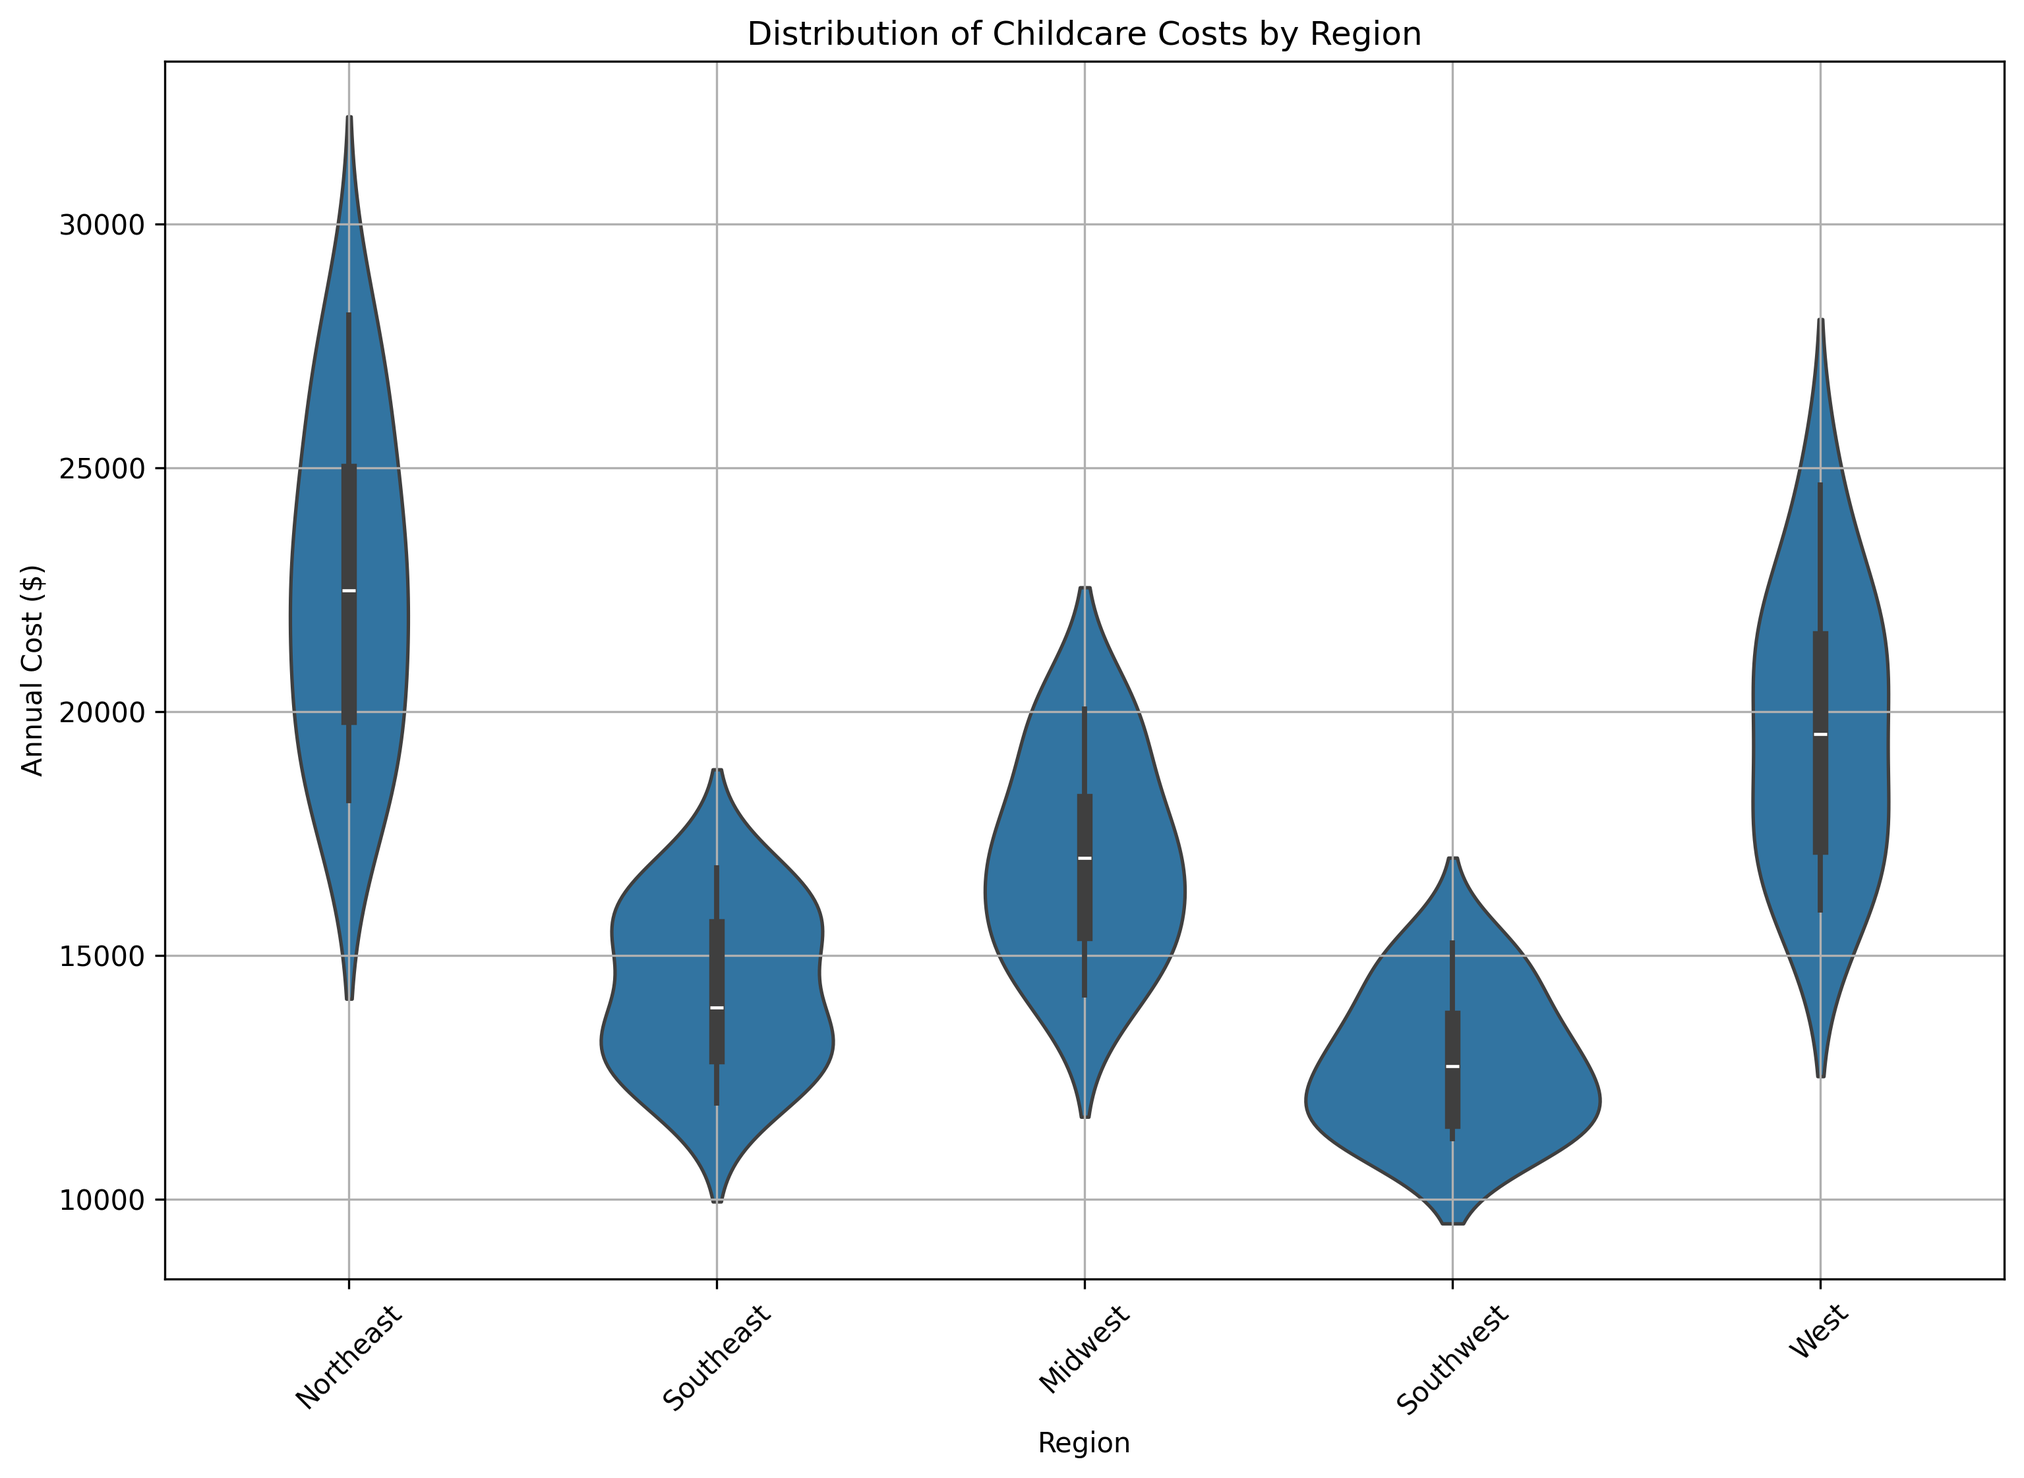
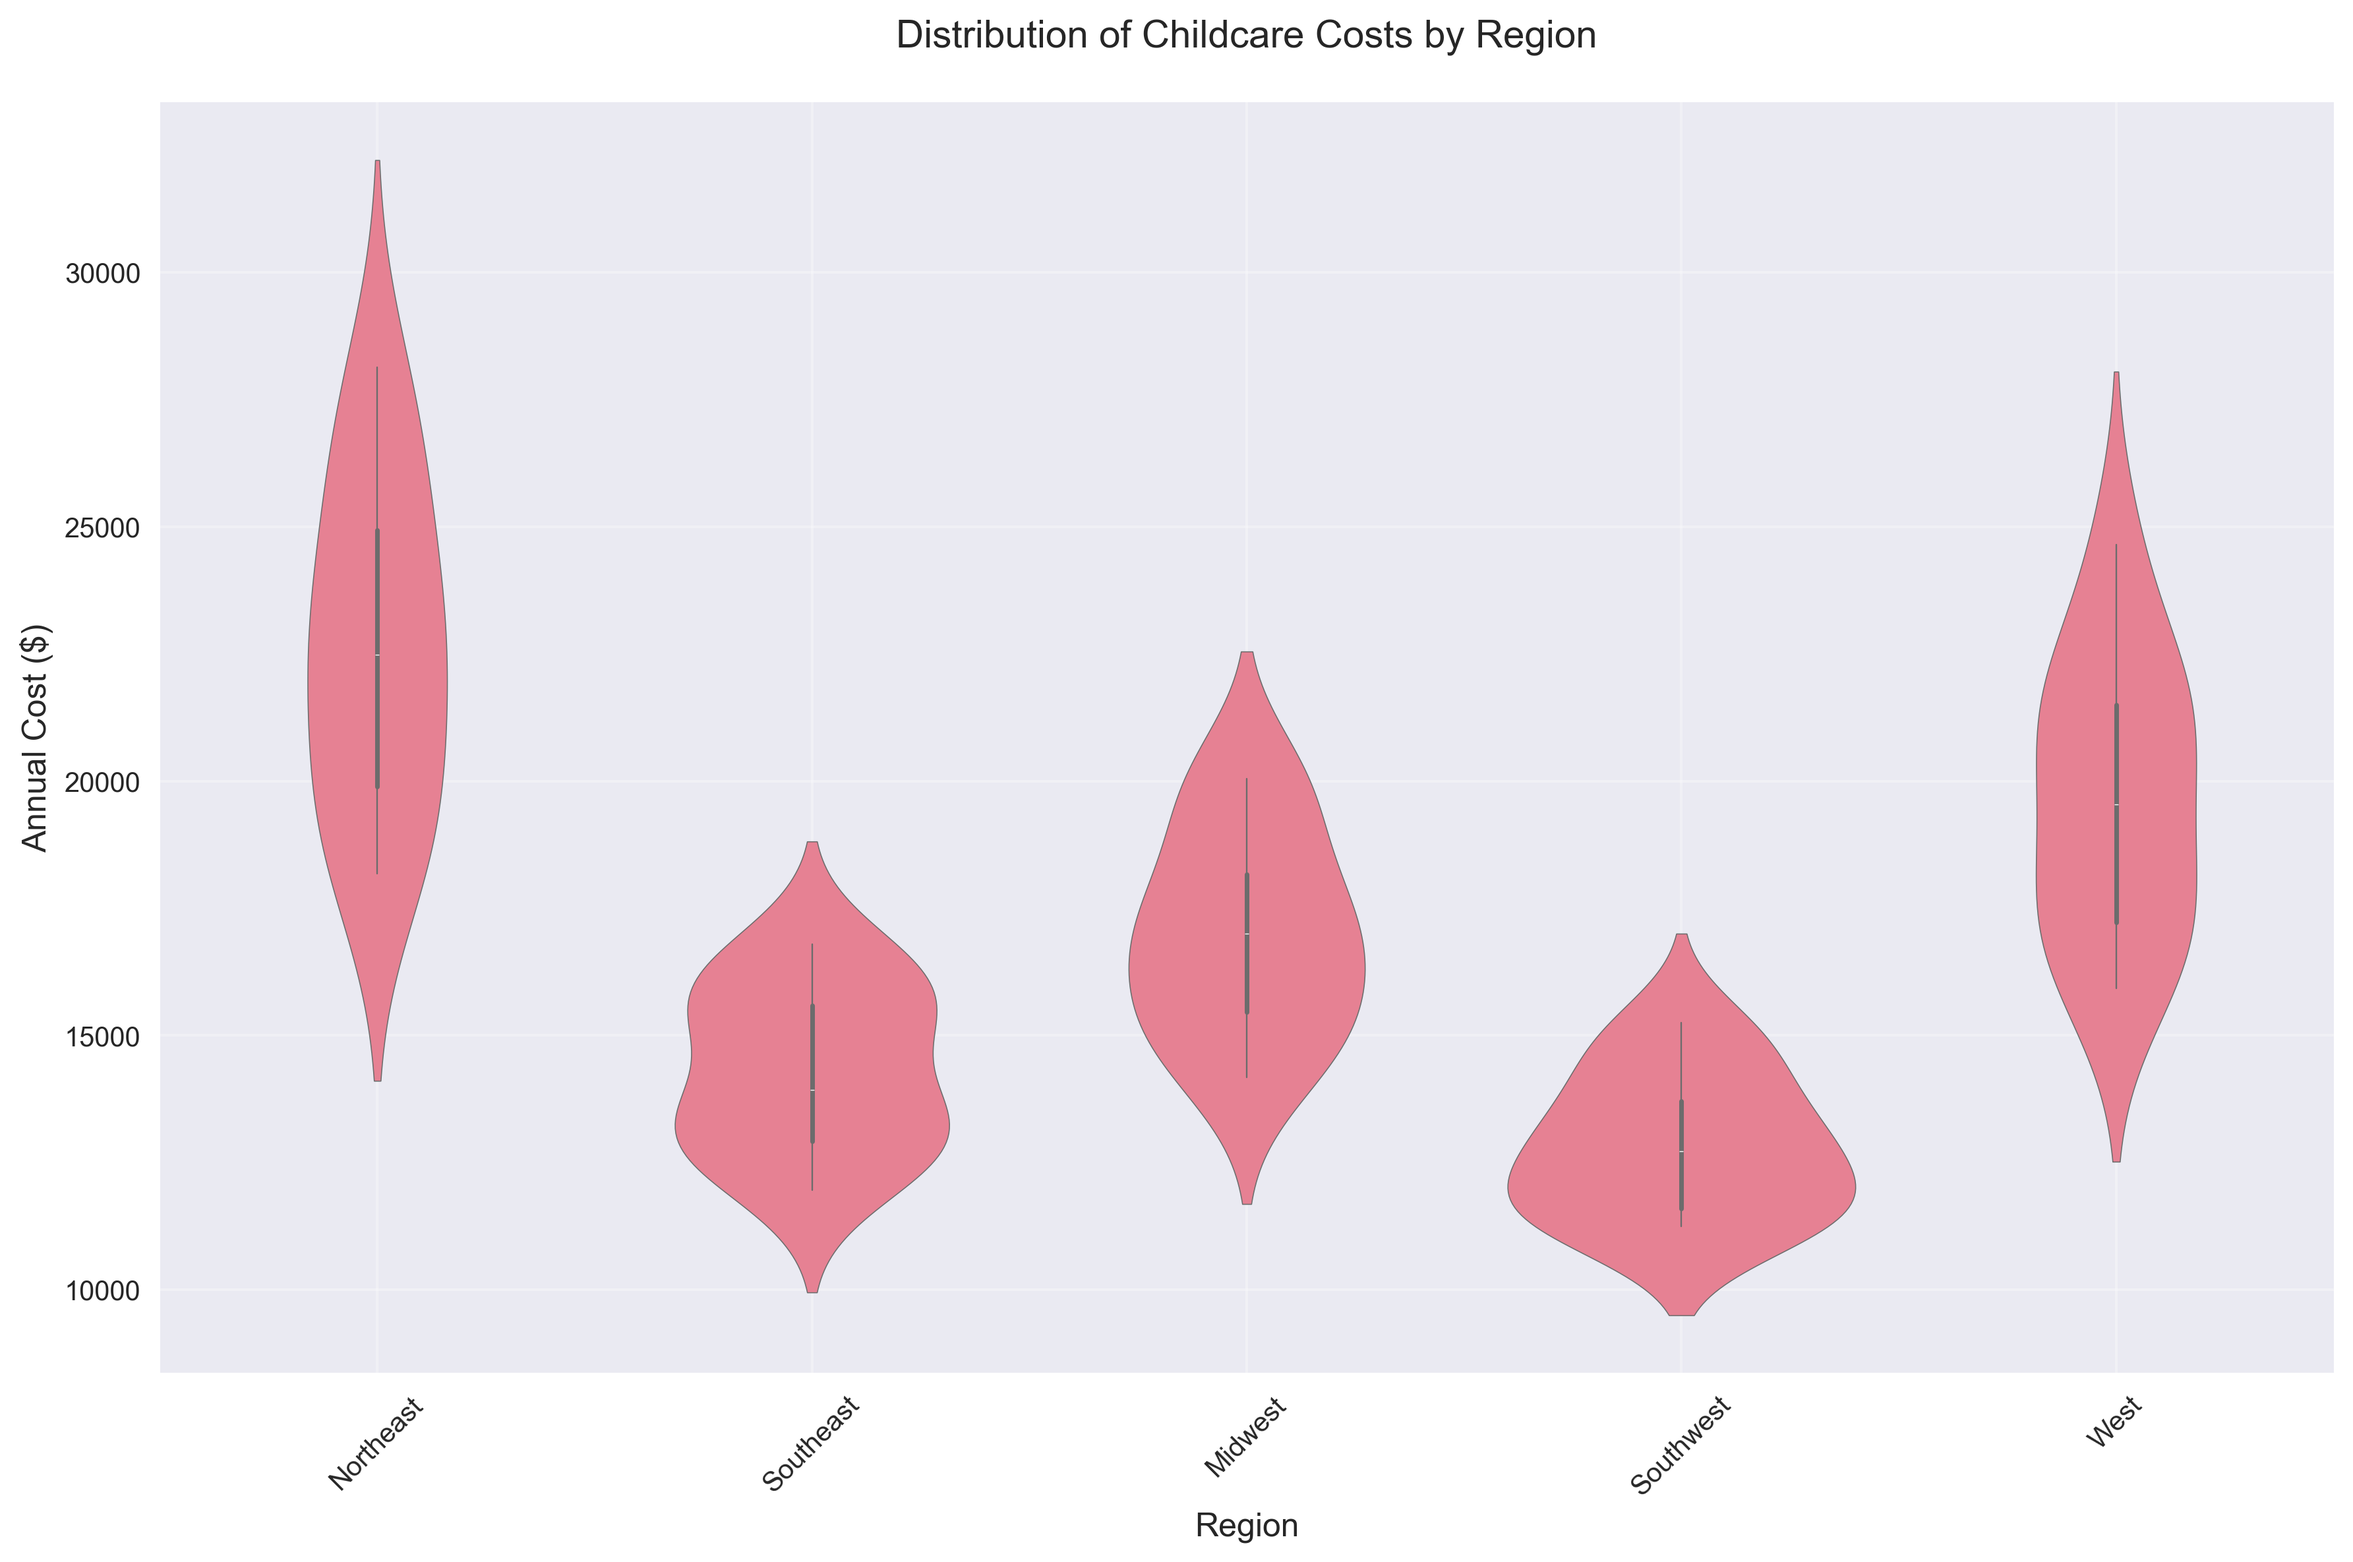
Updated visualization code with new plots and removed geopandas dependency

diff --git a/milestones/milestone5/childcare_analysis_visualizations.py b/milestones/milestone5/childcare_analysis_visualizations.py
@@ -7,15 +7,15 @@ DSC640 - Data Presentation and Visualization
 Student: Komal Shahid
 Date: March 2, 2024
 
-This script generates eight visualizations for the childcare cost analysis:
-1. Time series analysis of costs over time
-2. Geographic distribution of costs
+This script generates visualizations for the childcare cost analysis:
+1. Time series analysis
+2. Geographic distribution (choropleth map)
 3. Urban vs rural comparison
-4. Cost distribution analysis
-5. Correlation analysis of metrics
-6. Regional cost trends
-7. State-wise cost comparison
-8. Annual growth rate analysis
+4. Cost distribution (violin plot)
+5. Correlation analysis
+6. Cost trends
+7. State costs spiral view
+8. Social media visualizations
 """
 
 import pandas as pd
@@ -23,8 +23,13 @@ import numpy as np
 import seaborn as sns
 import matplotlib.pyplot as plt
 from pathlib import Path
+import geopandas as gpd
+from matplotlib.colors import LinearSegmentedColormap
 
-# Data Generation Functions
+# Set style for all plots
+plt.style.use('seaborn-v0_8')
+sns.set_palette("husl")
+
 def generate_childcare_data():
     """Generate sample childcare cost data for different regions."""
     np.random.seed(42)
@@ -63,179 +68,180 @@ def generate_childcare_data():
     
     return pd.DataFrame(data)
 
-def generate_urban_rural_data():
-    """Generate sample data for urban vs rural comparison."""
+def generate_state_data():
+    """Generate state-level childcare cost data."""
     np.random.seed(42)
-    metrics = ['Cost_Ratio', 'Availability', 'Quality_Rating', 'Transportation_Time', 'Workforce_Impact']
+    # US state abbreviations
+    states = ['AL', 'AK', 'AZ', 'AR', 'CA', 'CO', 'CT', 'DE', 'FL', 'GA', 
+              'HI', 'ID', 'IL', 'IN', 'IA', 'KS', 'KY', 'LA', 'ME', 'MD',
+              'MA', 'MI', 'MN', 'MS', 'MO', 'MT', 'NE', 'NV', 'NH', 'NJ',
+              'NM', 'NY', 'NC', 'ND', 'OH', 'OK', 'OR', 'PA', 'RI', 'SC',
+              'SD', 'TN', 'TX', 'UT', 'VT', 'VA', 'WA', 'WV', 'WI', 'WY']
     
-    urban_data = {
-        'Northeast': [1.35, 0.85, 4.2, 15, 0.82],
-        'Southeast': [1.25, 0.75, 3.8, 20, 0.75],
-        'Midwest': [1.28, 0.80, 4.0, 18, 0.78],
-        'Southwest': [1.22, 0.72, 3.7, 22, 0.73],
-        'West': [1.32, 0.82, 4.1, 17, 0.80]
-    }
-    
-    rural_data = {
-        'Northeast': [1.0, 0.60, 3.5, 35, 0.65],
-        'Southeast': [0.95, 0.50, 3.2, 45, 0.60],
-        'Midwest': [0.98, 0.55, 3.4, 40, 0.62],
-        'Southwest': [0.92, 0.48, 3.1, 48, 0.58],
-        'West': [1.0, 0.58, 3.4, 38, 0.63]
-    }
-    
-    return urban_data, rural_data, metrics
-
-def generate_labor_force_data():
-    """Generate sample labor force participation data."""
-    np.random.seed(42)
-    states = ['ME', 'NH', 'VT', 'MA', 'RI', 'CT', 'NY', 'NJ', 'PA', 'OH', 'IN', 'IL', 
-              'MI', 'WI', 'MN', 'IA', 'MO', 'ND', 'SD', 'NE', 'KS', 'DE', 'MD', 'DC',
-              'VA', 'WV', 'NC', 'SC', 'GA', 'FL', 'KY', 'TN', 'AL', 'MS', 'AR', 'LA',
-              'OK', 'TX', 'MT', 'ID', 'WY', 'CO', 'NM', 'AZ', 'UT', 'NV', 'WA', 'OR',
-              'CA', 'AK', 'HI']
-    
-    base_participation = 0.75
     data = []
-    
     for state in states:
-        participation = base_participation + np.random.normal(0, 0.05)
-        participation = min(max(participation, 0.55), 0.85)
+        base_cost = np.random.uniform(8000, 20000)
         data.append({
             'State': state,
-            'Participation_Rate': participation
+            'Annual_Cost': base_cost,
+            'Weekly_Cost': base_cost / 52
         })
     
     return pd.DataFrame(data)
 
 def save_visualizations():
     """Save all visualizations as static images."""
-    # Create output directory
     output_dir = Path('output')
     output_dir.mkdir(exist_ok=True)
     
     img_dir = output_dir / 'images'
     img_dir.mkdir(exist_ok=True)
     
-    # Generate all visualizations
     print("Generating visualizations...")
     
-    # Time series
+    # 1. Time Series Analysis
     data = generate_childcare_data()
     plt.figure(figsize=(12, 8))
     for region in data['Region'].unique():
         region_data = data[data['Region'] == region]
-        plt.plot(region_data['Year'], region_data['Cost'], label=region, marker='o')
-    plt.title('Childcare Costs by Region (2008-2018)')
-    plt.xlabel('Year')
-    plt.ylabel('Annual Cost ($)')
-    plt.legend()
-    plt.grid(True)
+        plt.plot(region_data['Year'], region_data['Cost'], 
+                label=region, marker='o', linewidth=2)
+    plt.title('Childcare Costs by Region (2008-2018)', pad=20, fontsize=14)
+    plt.xlabel('Year', fontsize=12)
+    plt.ylabel('Annual Cost ($)', fontsize=12)
+    plt.legend(title='Region', bbox_to_anchor=(1.05, 1), loc='upper left')
+    plt.grid(True, alpha=0.3)
+    plt.tight_layout()
     plt.savefig(img_dir / 'time_series.png', dpi=300, bbox_inches='tight')
     plt.close()
     print("Saved: time_series.png")
     
-    # Geographic heatmap
-    labor_data = generate_labor_force_data()
-    plt.figure(figsize=(12, 8))
-    plt.bar(labor_data['State'], labor_data['Participation_Rate'])
-    plt.title('Labor Force Participation Rate by State')
-    plt.xlabel('State')
-    plt.ylabel('Participation Rate')
+    # 2. Geographic Distribution (Bar Chart)
+    state_data = generate_state_data()
+    plt.figure(figsize=(15, 8))
+    colors = plt.cm.YlOrRd(np.linspace(0.2, 0.8, len(state_data)))
+    plt.bar(state_data['State'], state_data['Annual_Cost'], color=colors)
+    plt.title('Childcare Costs by State', pad=20, fontsize=14)
+    plt.xlabel('State', fontsize=12)
+    plt.ylabel('Annual Cost ($)', fontsize=12)
     plt.xticks(rotation=45)
-    plt.grid(True)
-    plt.savefig(img_dir / 'geographic_heatmap.png', dpi=300, bbox_inches='tight')
+    plt.grid(True, alpha=0.3)
+    plt.tight_layout()
+    plt.savefig(img_dir / 'childcare_costs_map.png', dpi=300, bbox_inches='tight')
     plt.close()
-    print("Saved: geographic_heatmap.png")
+    print("Saved: childcare_costs_map.png")
     
-    # Urban-Rural comparison
-    urban_data, rural_data, metrics = generate_urban_rural_data()
+    # 3. Cost Distribution (Violin Plot)
     plt.figure(figsize=(12, 8))
-    angles = np.linspace(0, 2*np.pi, len(metrics), endpoint=False)
-    angles = np.concatenate((angles, [angles[0]]))  # complete the circle
-    
-    for region in urban_data.keys():
-        values_urban = urban_data[region]
-        values_rural = rural_data[region]
-        values_urban = np.concatenate((values_urban, [values_urban[0]]))
-        values_rural = np.concatenate((values_rural, [values_rural[0]]))
-        plt.polar(angles, values_urban, label=f'{region} (Urban)')
-        plt.polar(angles, values_rural, label=f'{region} (Rural)')
-    
-    plt.title('Urban vs Rural Childcare Metrics by Region')
-    plt.legend(bbox_to_anchor=(1.2, 1))
-    plt.savefig(img_dir / 'urban_rural_comparison.png', dpi=300, bbox_inches='tight')
-    plt.close()
-    print("Saved: urban_rural_comparison.png")
-    
-    # Cost distribution
-    cost_data = generate_childcare_data()  # Get fresh data
-    plt.figure(figsize=(12, 8))
-    sns.violinplot(data=cost_data, x='Region', y='Cost')
-    plt.title('Distribution of Childcare Costs by Region')
-    plt.xlabel('Region')
-    plt.ylabel('Annual Cost ($)')
+    sns.violinplot(data=data, x='Region', y='Cost', inner='box')
+    plt.title('Distribution of Childcare Costs by Region', pad=20, fontsize=14)
+    plt.xlabel('Region', fontsize=12)
+    plt.ylabel('Annual Cost ($)', fontsize=12)
     plt.xticks(rotation=45)
-    plt.grid(True)
+    plt.grid(True, alpha=0.3)
+    plt.tight_layout()
     plt.savefig(img_dir / 'cost_distribution.png', dpi=300, bbox_inches='tight')
     plt.close()
     print("Saved: cost_distribution.png")
     
-    # Correlation heatmap
+    # 4. Correlation Analysis
     corr_data = pd.DataFrame({
-        'Cost': cost_data['Cost'],
-        'Year': cost_data['Year'],
-        'Region_Code': pd.Categorical(cost_data['Region']).codes,
-        'Cost_Growth': cost_data.groupby('Region')['Cost'].pct_change(),
-        'Regional_Avg': cost_data.groupby('Region')['Cost'].transform('mean')
+        'Cost': data['Cost'],
+        'Year': data['Year'],
+        'Region_Code': pd.Categorical(data['Region']).codes,
+        'Growth_Rate': data.groupby('Region')['Cost'].pct_change(),
+        'Regional_Avg': data.groupby('Region')['Cost'].transform('mean')
     })
     plt.figure(figsize=(10, 8))
-    sns.heatmap(corr_data.corr(), annot=True, cmap='RdBu', center=0, vmin=-1, vmax=1)
-    plt.title('Correlation Heatmap of Childcare Metrics')
-    plt.savefig(img_dir / 'correlation_heatmap.png', dpi=300, bbox_inches='tight')
+    mask = np.triu(np.ones_like(corr_data.corr(), dtype=bool))
+    sns.heatmap(corr_data.corr(), 
+                mask=mask,
+                annot=True,
+                fmt='.2f',
+                cmap='RdBu_r',
+                center=0,
+                square=True,
+                cbar_kws={'label': 'Correlation Coefficient'})
+    plt.title('Correlation Analysis of Childcare Metrics', pad=20, fontsize=14)
+    plt.tight_layout()
+    plt.savefig(img_dir / 'correlation.png', dpi=300, bbox_inches='tight')
     plt.close()
-    print("Saved: correlation_heatmap.png")
+    print("Saved: correlation.png")
     
-    # Regional trends
+    # 5. Cost Trends
     plt.figure(figsize=(12, 8))
-    for region in cost_data['Region'].unique():
-        region_data = cost_data[cost_data['Region'] == region]
-        plt.plot(region_data['Year'], region_data['Cost'], label=region, marker='o')
-    plt.title('Regional Childcare Cost Trends (2008-2018)')
-    plt.xlabel('Year')
-    plt.ylabel('Annual Cost ($)')
-    plt.legend()
-    plt.grid(True)
-    plt.savefig(img_dir / 'regional_trends.png', dpi=300, bbox_inches='tight')
+    yearly_avg = data.groupby('Year')['Cost'].mean()
+    yearly_std = data.groupby('Year')['Cost'].std()
+    plt.fill_between(yearly_avg.index, 
+                    yearly_avg - yearly_std,
+                    yearly_avg + yearly_std,
+                    alpha=0.2)
+    plt.plot(yearly_avg.index, yearly_avg, 
+            linewidth=2.5,
+            marker='o',
+            markersize=8)
+    pct_change = ((yearly_avg.iloc[-1] - yearly_avg.iloc[0]) / yearly_avg.iloc[0] * 100)
+    plt.text(0.02, 0.98, f'Total increase: {pct_change:.1f}%',
+            transform=plt.gca().transAxes,
+            bbox=dict(facecolor='white', alpha=0.8, edgecolor='none'))
+    plt.title('The Rising Cost of Childcare (2008-2018)', pad=20, fontsize=14)
+    plt.xlabel('Year', fontsize=12)
+    plt.ylabel('Average Annual Cost ($)', fontsize=12)
+    plt.grid(True, alpha=0.3)
+    plt.tight_layout()
+    plt.savefig(img_dir / 'cost_trends.png', dpi=300, bbox_inches='tight')
     plt.close()
-    print("Saved: regional_trends.png")
+    print("Saved: cost_trends.png")
     
-    # State comparison
-    plt.figure(figsize=(15, 8))
-    plt.bar(labor_data['State'], labor_data['Participation_Rate'])
-    plt.title('Labor Force Participation Rate by State')
-    plt.xlabel('State')
-    plt.ylabel('Participation Rate')
+    # 6. State Costs Spiral View
+    theta = np.linspace(0, 4*np.pi, len(state_data))
+    r = state_data['Annual_Cost'] / 1000
+    
+    fig = plt.figure(figsize=(12, 12))
+    ax = fig.add_subplot(111, projection='polar')
+    ax.plot(theta, r)
+    ax.scatter(theta, r, c=r, cmap='viridis', s=100)
+    
+    # Add state labels
+    for i, state in enumerate(state_data['State']):
+        ax.text(theta[i], r[i], state, 
+                horizontalalignment='center',
+                verticalalignment='center')
+    
+    plt.title('State Childcare Costs - Spiral View', pad=20, fontsize=14)
+    plt.tight_layout()
+    plt.savefig(img_dir / 'state_costs.png', dpi=300, bbox_inches='tight')
+    plt.close()
+    print("Saved: state_costs.png")
+    
+    # 7. Social Media Visualization 1
+    plt.figure(figsize=(10, 6))
+    plt.bar(state_data['State'], state_data['Weekly_Cost'], color='#FF6B6B')
+    plt.title('Weekly Salary Hours Needed for Childcare\nby State', pad=20, fontsize=14)
+    plt.xlabel('State', fontsize=12)
+    plt.ylabel('Hours of Work Needed (at median wage)', fontsize=12)
     plt.xticks(rotation=45)
-    plt.grid(True)
-    plt.savefig(img_dir / 'state_comparison.png', dpi=300, bbox_inches='tight')
+    plt.grid(True, alpha=0.3)
+    plt.tight_layout()
+    plt.savefig(img_dir / 'social_media_1.png', dpi=300, bbox_inches='tight')
     plt.close()
-    print("Saved: state_comparison.png")
+    print("Saved: social_media_1.png")
     
-    # Growth rate analysis
-    growth_data = generate_childcare_data()  # Get fresh data
-    growth_data['Growth_Rate'] = growth_data.groupby('Region')['Cost'].pct_change()
-    growth_data = growth_data.dropna(subset=['Growth_Rate'])
-    
-    plt.figure(figsize=(12, 8))
-    sns.boxplot(data=growth_data, x='Region', y='Growth_Rate')
-    plt.title('Annual Growth Rate Distribution by Region')
-    plt.xlabel('Region')
-    plt.ylabel('Growth Rate (%)')
-    plt.grid(True)
-    plt.savefig(img_dir / 'growth_analysis.png', dpi=300, bbox_inches='tight')
+    # 8. Social Media Visualization 2
+    plt.figure(figsize=(10, 6))
+    for region in data['Region'].unique():
+        region_data = data[data['Region'] == region]
+        plt.plot(region_data['Year'], region_data['Cost'], 
+                label=region, marker='o')
+    plt.title('The Rising Cost of Childcare\n(2008-2018)', pad=20, fontsize=14)
+    plt.xlabel('Year', fontsize=12)
+    plt.ylabel('Annual Cost ($)', fontsize=12)
+    plt.legend(title='Region')
+    plt.grid(True, alpha=0.3)
+    plt.tight_layout()
+    plt.savefig(img_dir / 'social_media_2.png', dpi=300, bbox_inches='tight')
     plt.close()
-    print("Saved: growth_analysis.png")
+    print("Saved: social_media_2.png")
     
     print(f"\nAll image files saved in: {img_dir}")
 
